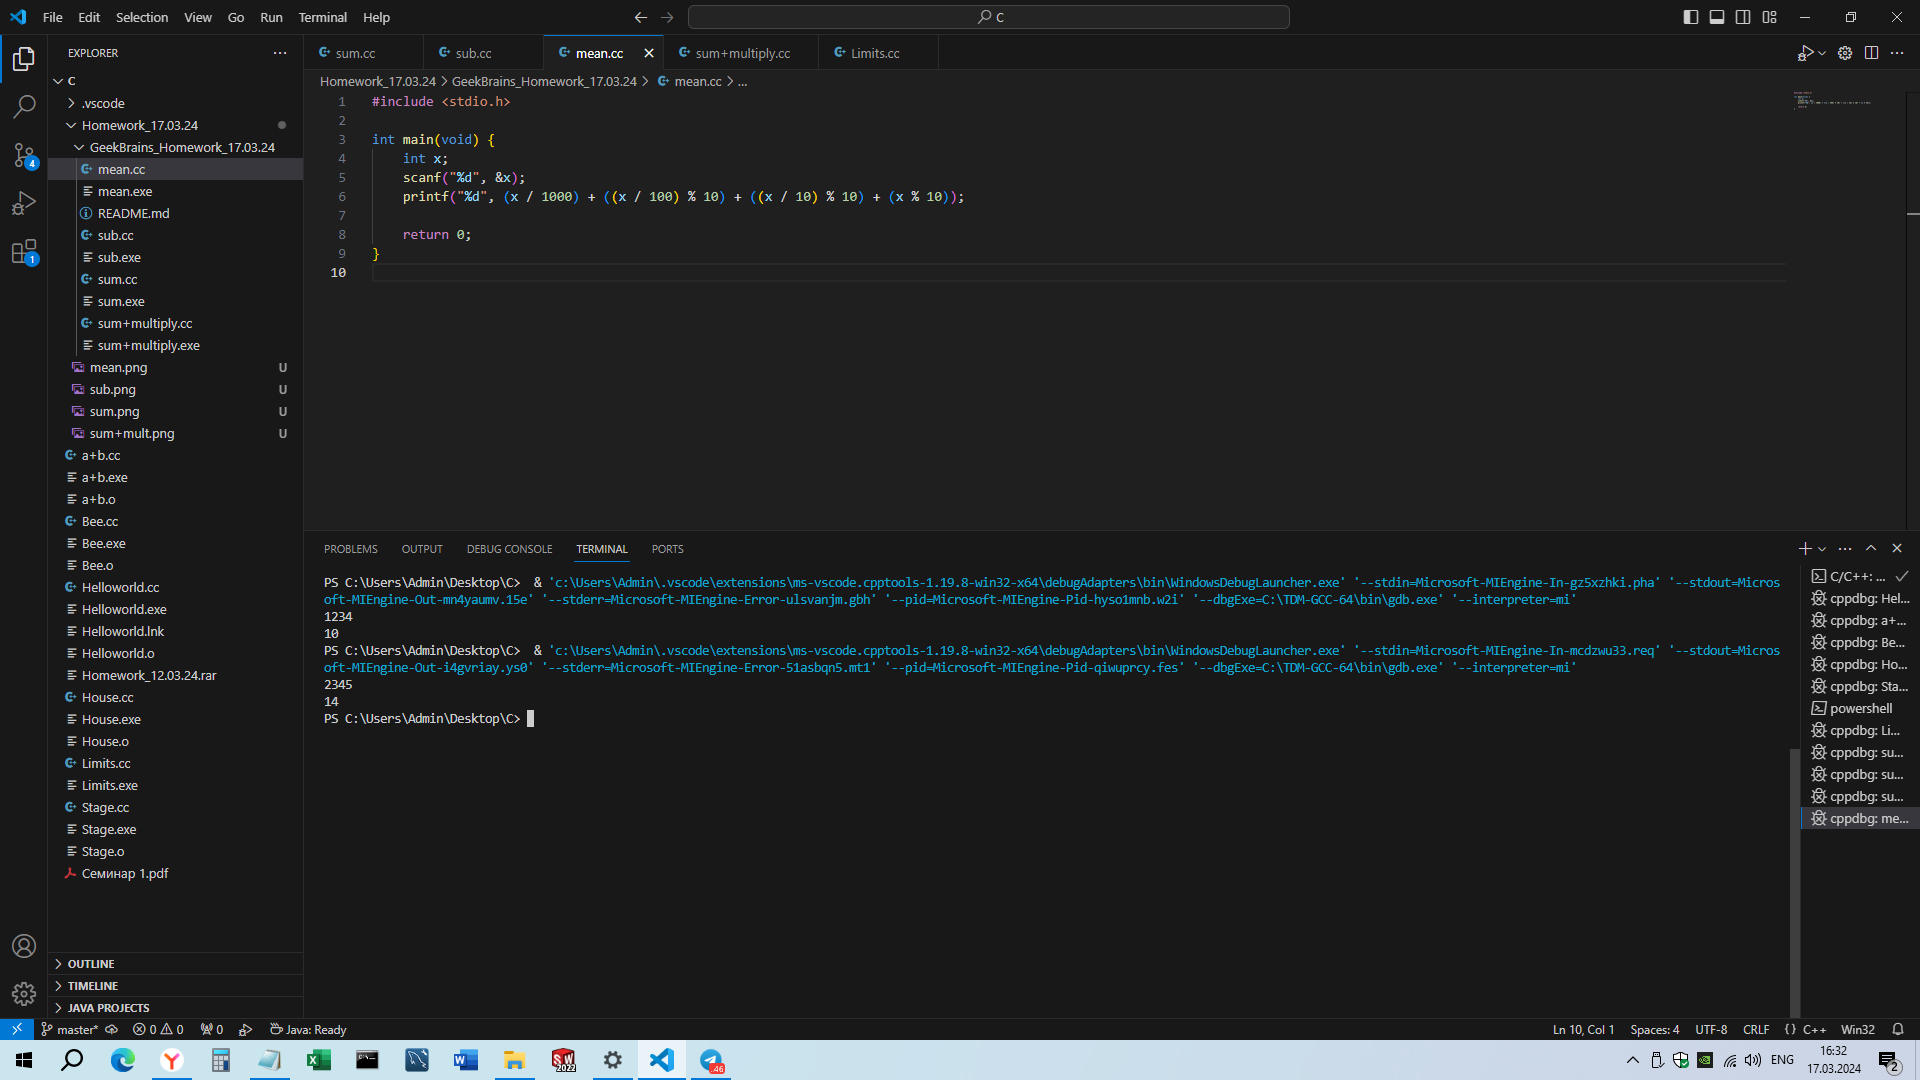
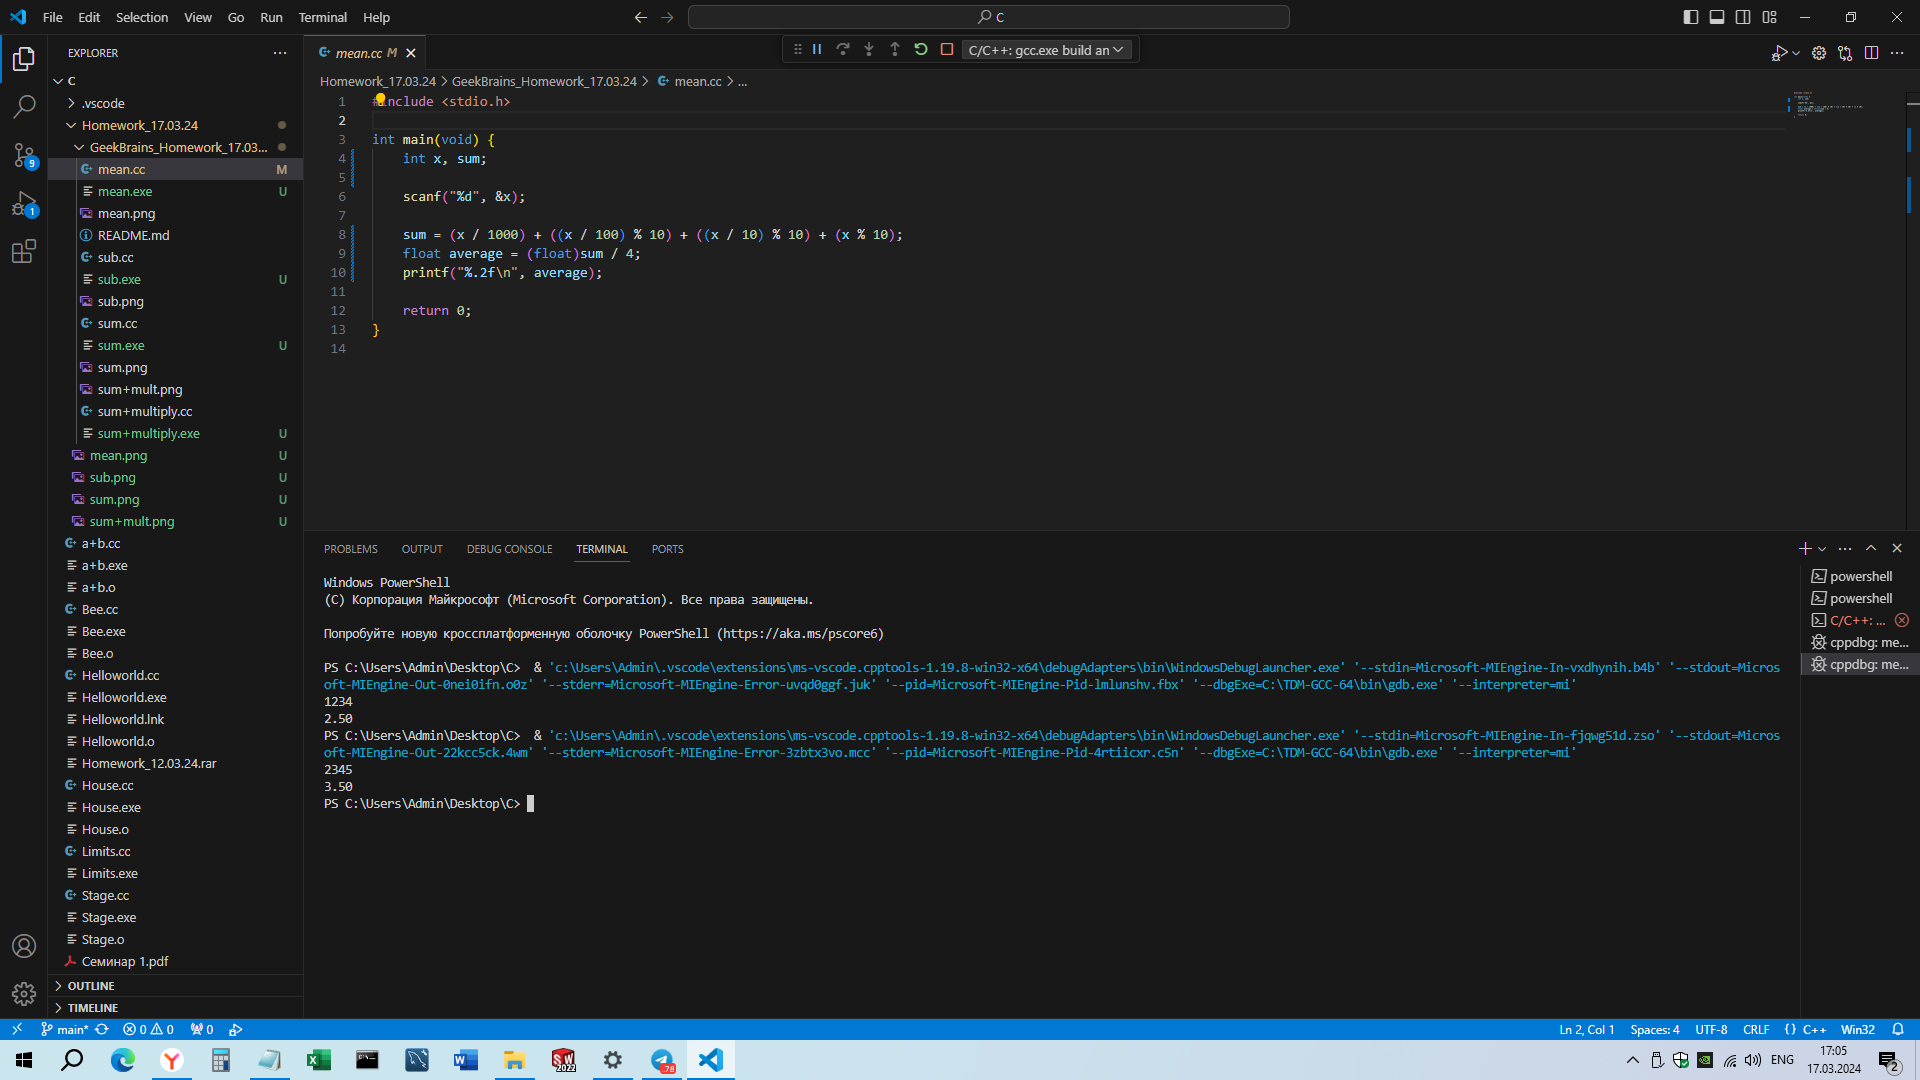
mean updated

diff --git a/mean.cc b/mean.cc
@@ -1,10 +1,13 @@
 #include <stdio.h>
 
 int main(void) {
-    int x;
+    int x, sum;
+
     scanf("%d", &x);
     
-    printf("%d", (x / 1000) + ((x / 100) % 10) + ((x / 10) % 10) + (x % 10));
+    sum = (x / 1000) + ((x / 100) % 10) + ((x / 10) % 10) + (x % 10);
+    float average = (float)sum / 4;
+    printf("%.2f\n", average);
 
     return 0;
 }
